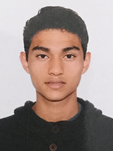
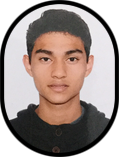
bordes en las imágenes

diff --git a/index.html b/index.html
@@ -240,10 +240,10 @@
                         <div class="single-team text-center radius-100 overflow-hidden m-2 m-lg-0">
                             <!-- Team Thumb -->
                             <div class="team-thumb radius-100 d-inline-block position-relative overflow-hidden">
-                                <img src="img\RodrigoMolero.jpeg" alt="">
+                                <img src="img\RodrigoMolero.png" alt="">
                                 <!-- Team Overlay -->
                                 <div class="team-overlay radius-100">
-                                    <h4 class="team-name text-white">Rogrigo Molero</h4>
+                                    <h4 class="team-name text-white">Rodrigo Molero</h4>
                                     <!-- Team Icons -->
                                     <div class="team-icons">
                                         <a class="p-2" href="#"><i class="fab fa-twitter"></i></a>
@@ -258,7 +258,7 @@
                         <div class="single-team text-center radius-100 overflow-hidden m-2 m-lg-0">
                             <!-- Team Thumb -->
                             <div class="team-thumb radius-100 d-inline-block position-relative overflow-hidden">
-                                <img src="img\OscarCabrera.jpeg" alt="">
+                                <img src="img\OscarCabrera.png" alt="">
                                 <!-- Team Overlay -->
                                 <div class="team-overlay radius-100">
                                     <h4 class="team-name text-white">Oscar Cabrera</h4>
